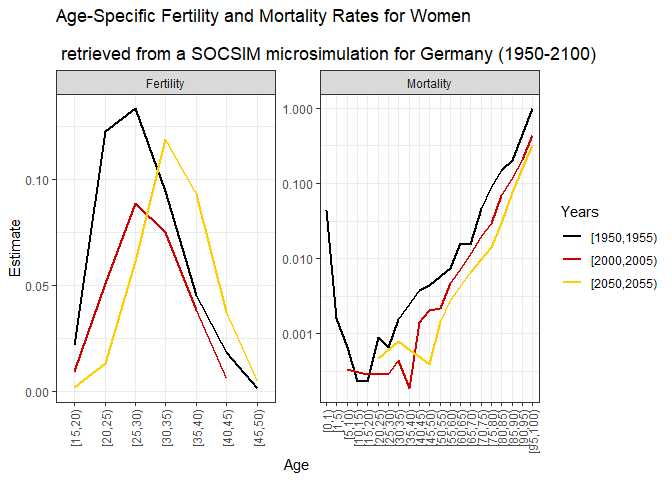
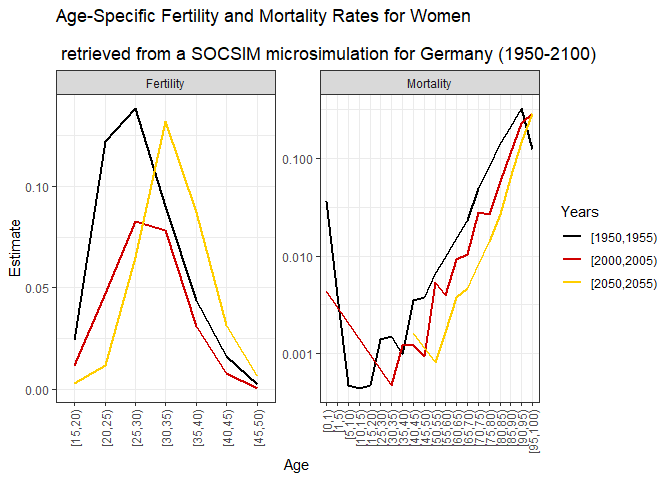
Correct mistakes and add instructions on how to run the simulation for another country

diff --git a/README.md b/README.md
@@ -9,7 +9,9 @@ Germany, 5th November 2026
 - [3. What can you do with simulation output? Example: estimates of kin
   loss and
   availability](#3-what-can-you-do-with-simulation-output-example-estimates-of-kin-loss-and-availability)
-- [4. Learn more](#4-learn-more)
+- [4. Run a simulation for another
+  country](#4-run-a-simulation-for-another-country)
+- [5. Learn more](#5-learn-more)
 - [References](#references)
 
 ## Introduction: What is SOCSIM and how does it work?
@@ -128,11 +130,11 @@ includes `remotes`.
 
 # The command is the same in {devtools} and {remotes}.
 # install.packages("remotes")
-remotes::install_github("MPIDR/rsocsim@v1.9.14")
+remotes::install_github("MPIDR/rsocsim@v1.9.18")
 
 # Using devtools
 # install.packages("devtools")
-devtools::install_github("MPIDR/rsocsim@v1.9.14")
+devtools::install_github("MPIDR/rsocsim@v1.9.18")
 ```
 
 ### 1.1.2 Installation binary package
@@ -272,7 +274,7 @@ than probabilities. So multiplying a rate by the number of months in the
 age category gives the expected number of births that a woman who lives
 through the age category will experience.
 
-The are identical for all marital status, but are specified for single
+They are identical for all marital status, but are specified for single
 and married women in the rate files. Other marital status (divorced,
 widowed, cohabiting) follow SOCSIM’s rate default rules.
 
@@ -309,10 +311,11 @@ probabilities, we assume that the probability of dying is constant over
 the year and use the formula
 ![1-(1-\_nq_x)^{1/n}](https://latex.codecogs.com/png.latex?1-%281-_nq_x%29%5E%7B1%2Fn%7D "1-(1-_nq_x)^{1/n}")
 proposed by Kenneth Watcher (Wachter 2014, 53). For the final age
-interval 100, monthly probabilities are equal to 1/12. The probabilities
-of death are identical for all marital status of each sex, and are only
-specified for single women and single men in the rate files. Other
-marital status will follow SOCSIM’s rate default rules.
+interval 100, monthly probabilities are equal to 1 so that everyone dies
+within the year. The probabilities of death are identical for all
+marital status of each sex, and are only specified for single women and
+single men in the rate files. Other marital status will follow SOCSIM’s
+rate default rules.
 
 The WPP2024 methods used to estimate mortality and life tables vary
 across countries depending on the type and quality of available
@@ -351,7 +354,7 @@ all countries using the function `download_WPP2024()` in
 to select a different country (‘Location’) and keep only the relevant
 variables. If you want to select a different time period, also indicate
 the minimum and maximum years as arguments of the function. Once the
-data have been filtered, use the `write_socsim_mortality_rates_WPP` and
+data have been filtered, use the `write_socsim_fertility_rates_WPP` and
 `write_socsim_mortality_rates_WPP` for the new country.
 
 ``` r
@@ -364,8 +367,10 @@ source("functions_WPP2024.R")
 # Download WPP 2024 data if it is not already downloaded
 download_WPP2024()
 
-# Filter WPP 2024 data for Germany 
-filter_WPP2024(Country = "Germany", 
+# Filter WPP 2024 data for the selected country
+Country <- "Germany"
+
+filter_WPP2024(Country = Country, 
                Year_Min = 1950, 
                Year_Max = 2100)
 ```
@@ -373,16 +378,16 @@ filter_WPP2024(Country = "Germany",
 ## 2.3. Create initial population and marriage files
 
 Now that we have the rate files, let’s create the initial population
-(.opop) and marriage (.opop) files. For practical reasons, we will use a
-small initial population to reduce the time required to run the
-simulation and to compute the subsequent code. The initial .opop will
-have a size of 1000, with randomly assigned sex and dates of birth, and
-group 1 for all. Other columns will be completed during the simulation.
-The initial .omar will be an empty file.
+(`.opop`) and marriage (`.omar`) files. For practical reasons, we will
+use a medium-sized initial population to reduce the time required to run
+the simulation and to compute the subsequent code. The initial .opop
+will have a size of 1000, with randomly assigned sex and dates of birth,
+and group 1 for all. Other columns will be completed during the
+simulation. The initial .omar will be an empty file.
 
 ``` r
 # Set size of initial population
-size_opop <-  20000
+size_opop <-  10000
 
 # Create data.frame with 14 columns and nrows = size_opop
 presim.opop <- setNames(data.frame(matrix(data = 0, ncol = 14, nrow = size_opop)), 
@@ -471,12 +476,12 @@ head(opop)
 ```
 
     ##   pid fem group nev dob mom pop nesibm nesibp lborn marid mstat  dod    fmult
-    ## 1   1   0     1  65 525   0   0      0      0     0     0     1 1550 0.000000
-    ## 2   2   1     1  65 771   0   0      0      0 25459  1359     4 1463 1.677271
-    ## 3   3   0     1  65 599   0   0      0      0 21358   618     4 1575 0.000000
-    ## 4   4   1     1  65 576   0   0      0      0     0     0     1 1511 0.443434
-    ## 5   5   1     1  65 808   0   0      0      0 22564  2004     3 1793 0.266191
-    ## 6   6   1     1  65 458   0   0      0      0     0     0     1 1417 0.884103
+    ## 1   1   1     1  65 667   0   0      0      0 10171   171     3 1579 1.677271
+    ## 2   2   1     1  65 586   0   0      0      0     0     0     1 1291 0.443434
+    ## 3   3   1     1  65 586   0   0      0      0     0     0     1 1426 0.266191
+    ## 4   4   1     1  65 322   0   0      0      0     0     0     1 1162 0.884103
+    ## 5   5   1     1  65 714   0   0      0      0 13259   576     3 1749 0.776661
+    ## 6   6   1     1  65 956   0   0      0      0 15902  2711     3 1970 2.188382
 
 The marriage file (.omar) contains one record for each marriage. Each
 marriage record provides the following information: marriage id number
@@ -490,13 +495,13 @@ husband’s next most recent prior marriage (hprior).
 head(omar)
 ```
 
-    ##   mid  wpid  hpid dstart dend rend wprior hprior
-    ## 1   1 15229 19446   1001 1688    3      0      0
-    ## 2   2  2892  8744   1001 1503    3      0      0
-    ## 3   3  3081 14017   1001 1496    3      0      0
-    ## 4   4  2186 12899   1001 1445    3      0      0
-    ## 5   5 11548 19958   1001 1264    3      0      0
-    ## 6   6  4348   812   1001 1497    3      0      0
+    ##   mid wpid hpid dstart dend rend wprior hprior
+    ## 1   1 3725 5168   1001 1504    3      0      0
+    ## 2   2 9460 8091   1001 1540    3      0      0
+    ## 3   3 2759  128   1001 1361    3      0      0
+    ## 4   4 1701 7862   1001 1493    3      0      0
+    ## 5   5 5788 4593   1001 1365    3      0      0
+    ## 6   6 6253 3552   1001 1712    3      0      0
 
 ## 2.5. Estimate age-specific rates from the SOCSIM microsimulation
 
@@ -608,8 +613,11 @@ year_range_fert <- min(year_breaks_fert):(max(year_breaks_fert) - 1)
 # Age breaks of fertility rates. Extract all the unique numbers from the intervals 
 age_breaks_fert <- unique(as.numeric(str_extract_all(as.character(asfr_sim$age), "\\d+", simplify = T)))
 
+# Type the name of the country as listed in the WPP 2024 (e.g., "Germany")
+Country <- "Germany"
+
 # Load the WPP fertility data used to write the input rates and compute age-specific fertility rates by 5-year age groups
-fertility_Germany <- fread("Data/WPP2024_Fertility_Germany.csv")
+fertility_Germany <- fread(paste0("Data/WPP2024_Fertility_", Country, ".csv"))
 
 WPP_fert <- fertility_Germany %>% 
   filter(year %in% year_range_fert) %>% 
@@ -648,8 +656,11 @@ year_range_mort <- min(year_breaks_mort):(max(year_breaks_mort) - 1)
 # Age breaks of mortality rates. Extract all the unique numbers from the intervals 
 age_breaks_mort <- unique(as.numeric(str_extract_all(as.character(asmr_sim$age), "\\d+", simplify = T)))
 
+# Type the name of the country as listed in the WPP 2024 (e.g., "Germany")
+Country <- "Germany"
+
 # Load mortality data used as input and compute age-specific mortality rates by 5-year age groups
-mortality_Germany <- fread("Data/WPP2024_Mortality_Germany.csv")
+mortality_Germany <- fread(paste0("Data/WPP2024_Mortality_", Country, ".csv"))
 
 # To facilitate comparison, we will use the central mortality rates (mx) instead of the probabilities (qX)
 
@@ -716,8 +727,6 @@ the size of the initial population.
 
 # 3. What can you do with simulation output? Example: estimates of kin loss and availability
 
-> Prepared by Mallika Snyder for the PAA 2023 Member Initiated Meeting
-
 ### Objectives
 
 1.  Learn how to analyse SOCSIM output
@@ -751,7 +760,7 @@ As well as allowing us to identify networks more easily, SOCSIM also
 provides us with valuable information about the timing of vital events
 such as births, deaths, and marriages, in these networks. This can help
 us to relate changes in the vital rates that go into SOCSIM to changes
-in the networks available to our simulated peoplem, often at a very fine
+in the networks available to our simulated people, often at a very fine
 temporal level (months or years). In this workshop, we will focus on
 just one example, kin loss, but there are many other ways to use SOCSIM
 to study this and other questions about kinship dynamics.
@@ -967,7 +976,75 @@ spouses and siblings, which is related to a decline in fertility rates
 and resulting decline in marriage rates, as per our partner matching
 framework.
 
-# 4. Learn more
+# 4. Run a simulation for another country
+
+Now adapt the German simulation to another country or area included in
+the WPP 2024 data. Run the simulation for the period **1950–2100**.
+
+The purpose of this exercise is not only to run the model, but also to
+identify which parts of the workflow depend on the selected country and
+which parts can be reused unchanged.
+
+Follow these steps:
+
+1.  **Choose a country or area** available in the WPP 2024 data.
+
+    Make sure that you use the country or area name exactly as it
+    appears in the WPP `Location` variable.
+
+2.  **Download and filter the WPP data** for your selected country using
+    the functions provided in `functions_WPP2024.R`.
+
+3.  **Check the filtered files** created in the `Data` folder. Confirm
+    that they contain:
+
+    - fertility data by year and single ag
+    - mortality data by year, sex, and single age
+    - all years from 1950 to 2100.
+
+4.  **Create the SOCSIM rate files** for your selected country using the
+    functions provided in `functions_rates.R`.
+
+5.  **Check the generated rate files** in the `rates` folder.
+
+6.  **Create a new supervisory file** for your selected country, using
+    `socsim_Germany.sup` as a template. Decide which parts of the file
+    need to be changed and which parts should remain unchanged. In
+    particular, check:
+
+    - the country name in the comments
+    - the country prefix in every fertility and mortality rate-file
+      path;
+    - the number of simulation segment
+    - the duration of each segment
+    - the initial population file
+
+    Since this exercise uses the same simulation period as the Germany
+    example—1950 to 2100—the number and duration of the segments should
+    remain unchanged.
+
+7.  **Run the simulation** using your new supervisory file.
+
+    Before running the simulation, check that:
+
+    - the supervisory file refers to the correct rate-file names;
+    - the referenced rate files exist in the `rates` folder;
+    - there is a fertility and a mortality file for every year from 1950
+      to 2100.
+
+8.  **Read and inspect the output** population and marriage files.
+
+    Confirm that the simulation has produced the expected output files
+    and that they can be imported into R.
+
+9.  **Optional extension:** Adapt the validation and plotting code from
+    the Germany example to compare the SOCSIM-generated rates with the
+    WPP input rates for your selected country.
+
+    Identify which parts of the code still refer specifically to Germany
+    and determine what needs to be changed.
+
+# 5. Learn more
 
 The ‘SOCSIM Oversimplified’ manual written by Carl Mason (2016) is a
 great starting point to learn more about how SOCSIM works:
